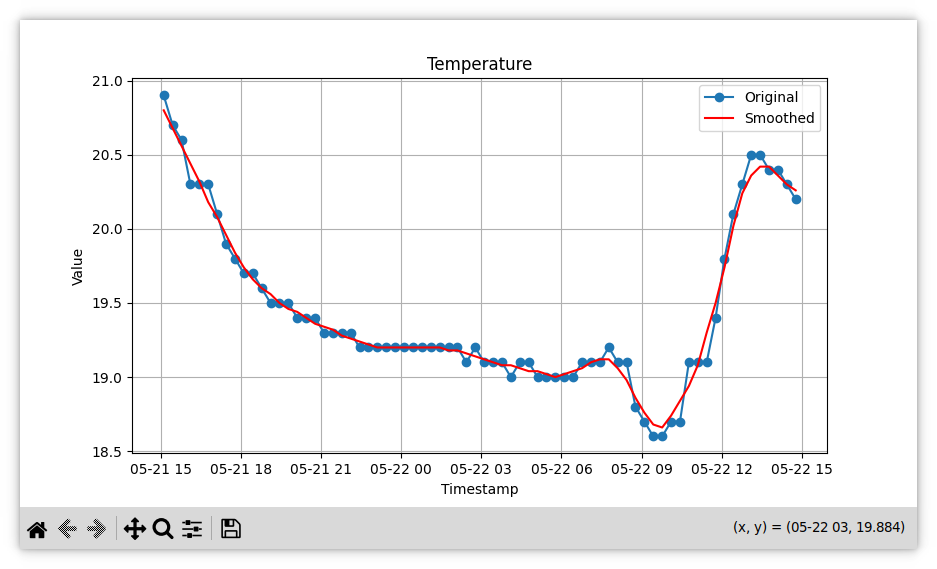
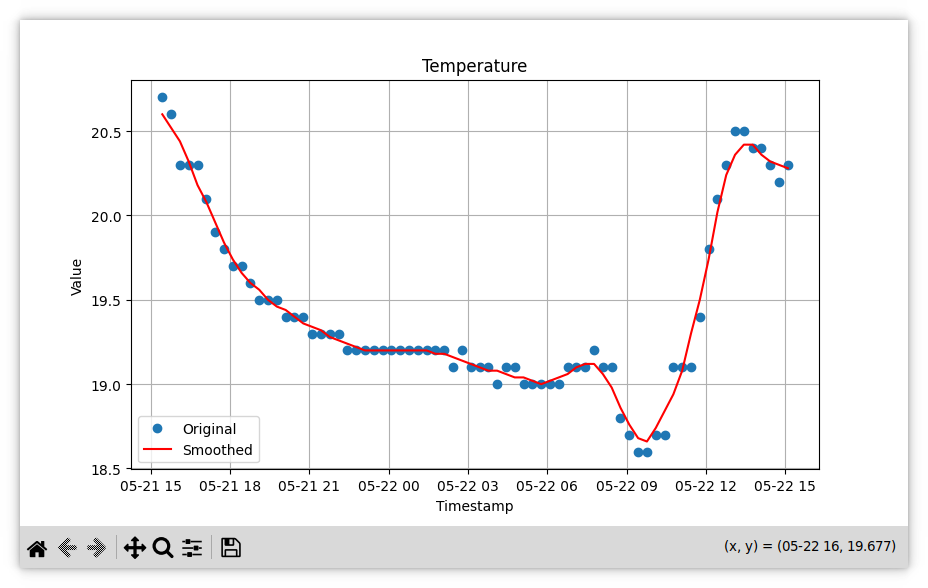
working on LoRaWAN tutorial

diff --git a/_posts/2024-05-19-connecting-sensors-opcua.md b/_posts/2024-05-19-connecting-sensors-opcua.md
@@ -200,7 +200,7 @@ aggregate dashboards with realtime data.
 
 Below is the boilerplate code to connect to the OPC-UA server, extract
 the temperatures of the last day and generate a basic plot.
-For this, two external libraries are used: *opcua-asyncio* and *matplotlib*.
+For this, three external libraries are used: *opcua-asyncio*, *numpy* and *matplotlib*.
 
 ```python
 import asyncio
@@ -237,7 +237,7 @@ async def main():
 
         # Plot
         plt.figure(figsize=(10, 5))
-        plt.plot(times, values, marker='o', label='Original')
+        plt.plot(times, values, linestyle= '', marker='o', label='Original')
         plt.plot(times, smooth, linestyle='-', color='red', label='Smoothed')
         plt.xlabel('Timestamp')
         plt.ylabel('Value')
@@ -254,91 +254,5 @@ if __name__ == '__main__':
 ![Temperature Plot]({{ site.baseurl }}/assets/images/temperature_plot.png)
 <figcaption>figure 13: Smoothed temperature plot using opcua-asyncio and matplotlib.</figcaption>
 <br>
-
-<br>
-<br>
-<br>
-<br>
-<br>
-<br>
-<br>
-<br>
-<br>
-<br>
-
-===================
-
- were combined into a single unit? This integration could operate as a standalone LoRaWAN network within a local area network (LAN), eliminating the need for an internet connection.
-
-[Figure here: Diagram of integrated server setup]
-
-In this scenario, the server would decode LoRaWAN packets, extract the payload from binary to SI units, and organize the data in an OPC UA tree structure under the sensor's MAC address. This structured approach allows for easy data access and management.
-
-[Figure here: Example of OPC UA tree structure]
-
-## Step-by-Step Guide
-
-### Step 1: Power Up the Gateway
-Connect your [Your Product Name] gateway to a power source. You should see the power indicator light up.
-
-### Step 2: Connect Sensors
-Attach your LoRaWAN or Modbus sensors to the gateway. Refer to the diagrams below for correct connections.
-
-### Step 3: Configure the Gateway
-Access the gateway's web interface by entering its IP address in your browser. Login with your credentials.
-
-### Step 4: Setup OPC UA
-Navigate to the OPC UA settings in the menu. Enter the necessary details to configure the connection.
-
-### Step 5: Install FreeOpcUa
-If you haven't installed FreeOpcUa, follow this guide: [FreeOpcUa Installation](#).
-
-### Step 6: Connect FreeOpcUa to Gateway
-Open your Python environment and use the following code to connect to the gateway:
-```python
-from opcua import Client
-
-client = Client("opc.tcp://<gateway-ip>:4840")
-client.connect()
-print("Connected to OPC UA Server")
-```
-
-### Step 7: Retrieve Sensor Data
-Use this code snippet to read data from your sensors:
-```python
-sensor_node = client.get_node("ns=2;i=2")
-sensor_value = sensor_node.get_value()
-print(f"Sensor Value: {sensor_value}")
-```
-
-### Step 8: Visualize Historical Data
-Install Matplotlib if you haven't:
-```bash
-pip install matplotlib
-```
-```python
-import matplotlib.pyplot as plt
-import datetime
-
-# Retrieve historical data
-history = sensor_node.read_raw_history(datetime.datetime.now() - datetime.timedelta(days=1), datetime.datetime.now())
-
-# Extract timestamps and values
-timestamps = [entry.SourceTimestamp for entry in history]
-values = [entry.Value.Value for entry in history]
-
-# Plot data
-plt.plot(timestamps, values)
-plt.xlabel('Time')
-plt.ylabel('Sensor Value')
-plt.title('Sensor Data Over Time')
-plt.show()
-```
-
-### Step 9: Try It Out Online
-To make it even easier, we've created an interactive Jupyter Notebook that you can run directly in your browser. Click [here](link-to-notebook) to try it out.
-
-## Conclusion
-Congratulations! You've successfully set up your [Your Product Name] gateway, connected it to sensors, and visualized the data using FreeOpcUa. We hope this tutorial was helpful and gave you a clear understanding of how to leverage our product for your data management needs.
 
 For more advanced features and support, visit our [documentation](#) or contact our [support team](#). Happy data monitoring!
